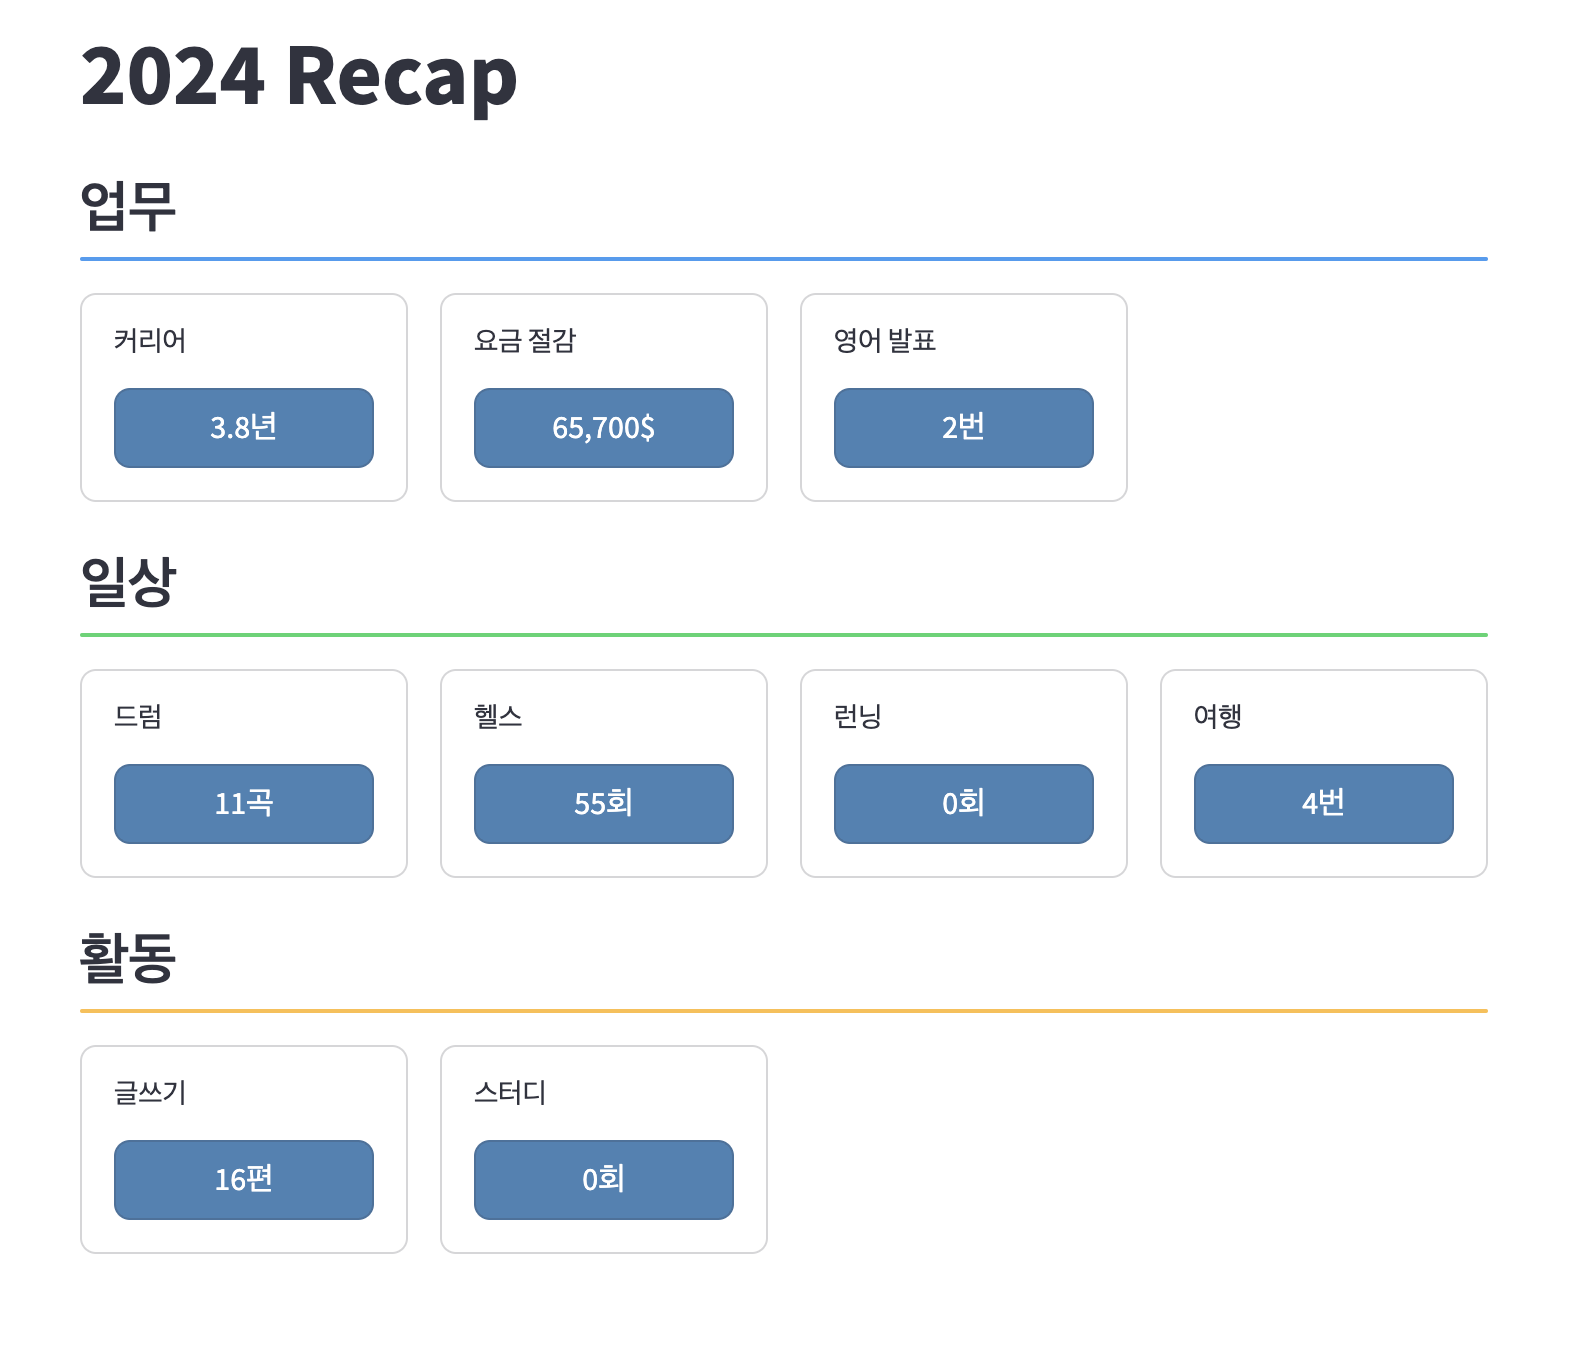
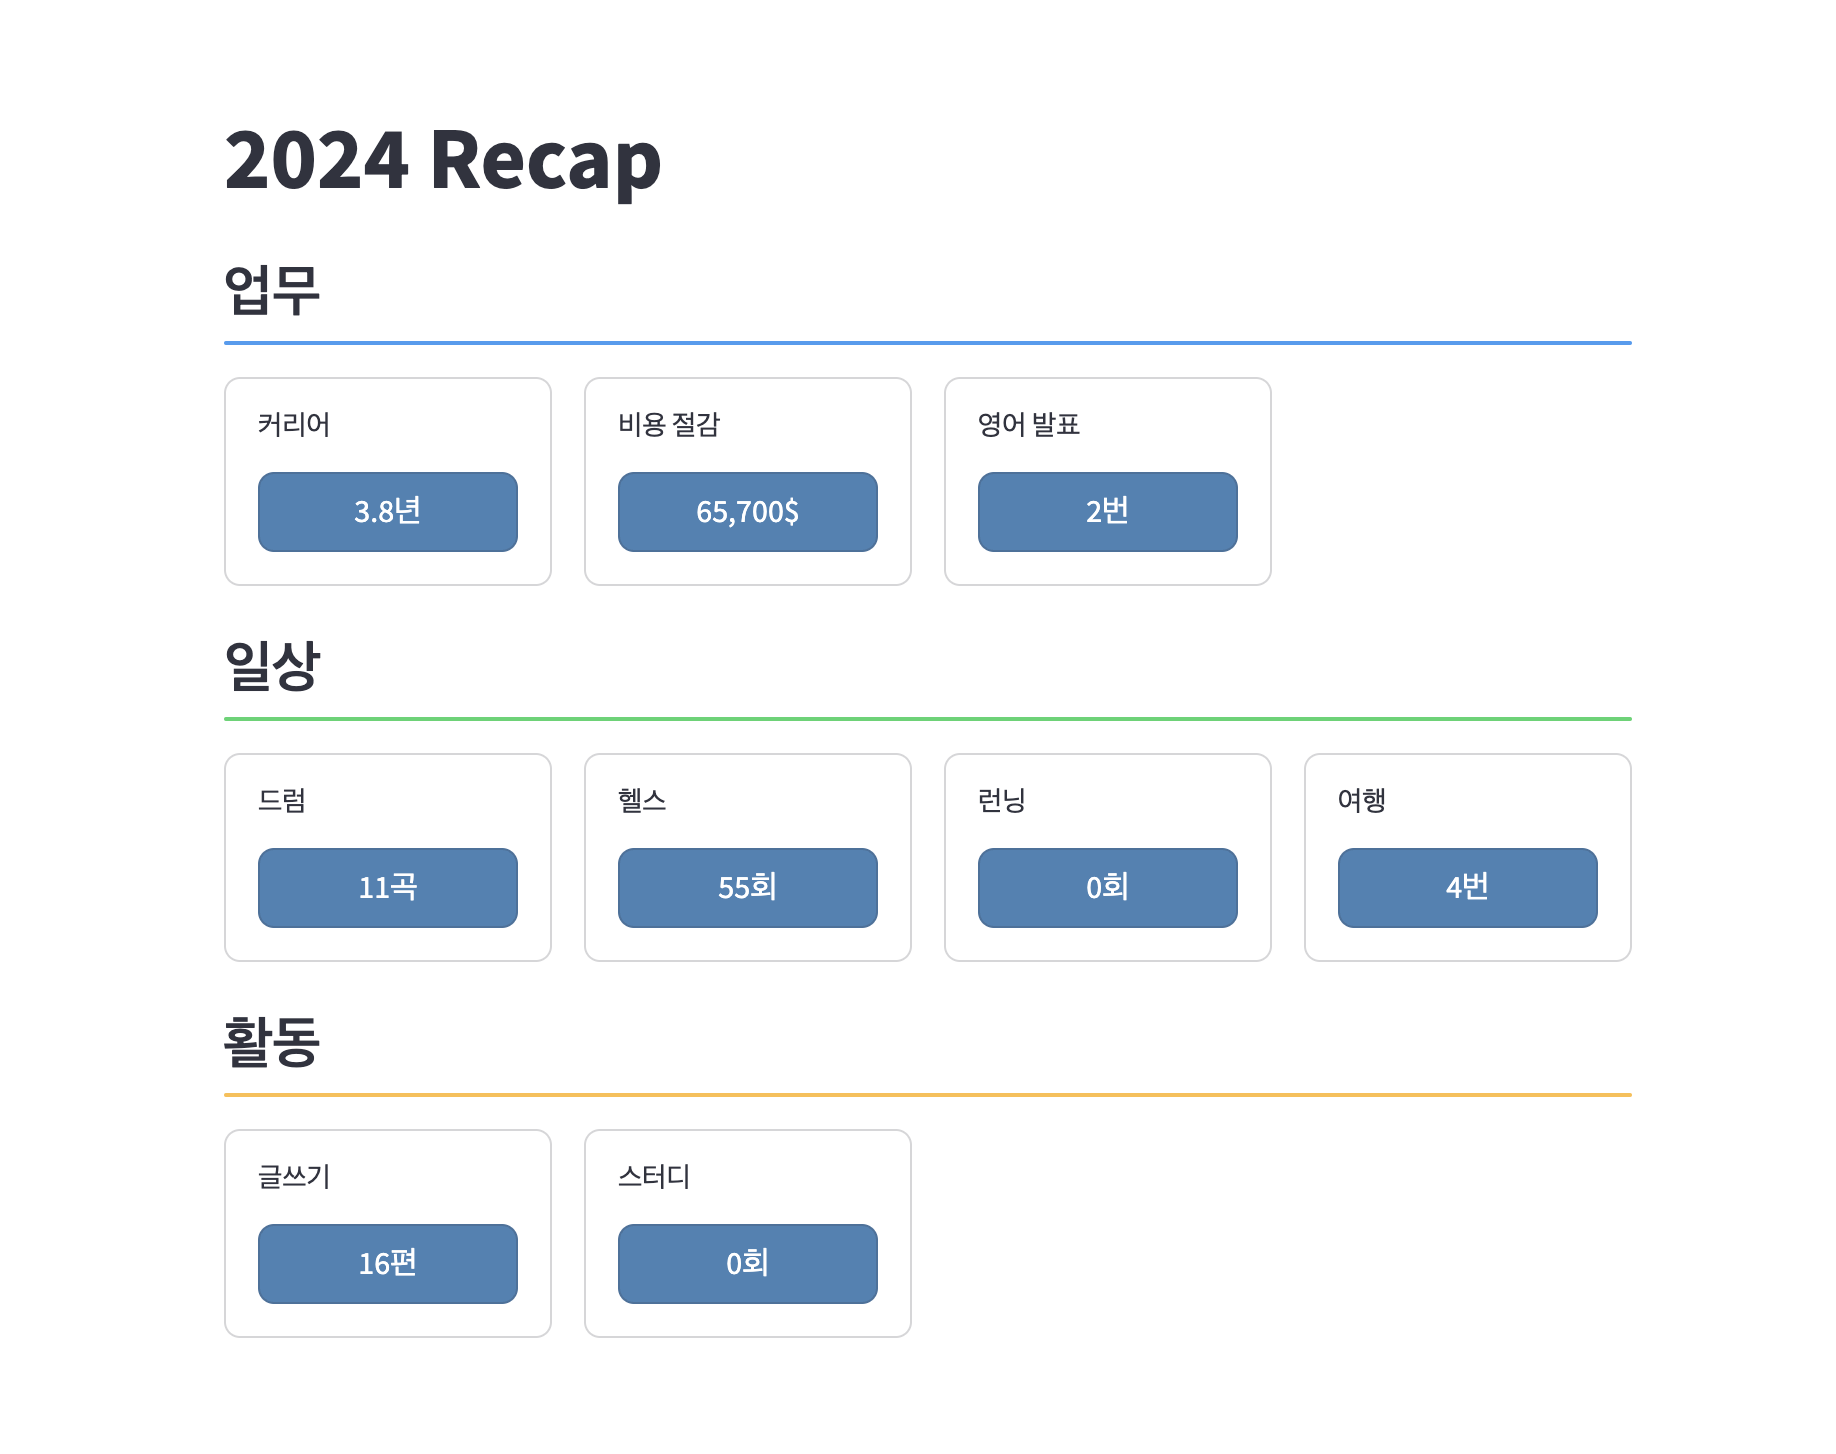
imp: populate the post

Changed region(s): [[0.0312, 0.0312, 0.8739, 0.4056], [0.0312, 0.4056, 0.9363, 0.6553], [0.0312, 0.6865, 0.9051, 0.9361]]

diff --git a/_posts/2025-01-27-Retrospect-2024.md b/_posts/2025-01-27-Retrospect-2024.md
@@ -13,17 +13,17 @@ H4 { color: #C7A579 }
 
 얼마 전 유튜브 뮤직에서 2024 Recap를 보내주었다. Recap은 자신이 가장 많이 들은 음악, 장르, 아티스트와 함께 플레이리스트를 제공하는 유튜브 프리미엄 서비스이다. 덕분에 이번 연휴에는 플레이리스트가 들려주는 음악을 따라 지난 한 해 동안의 감정선을 돌아 볼 수 있었다.
 
-![image_01](/assets/img/posts/2025-01-27/image_01.png){: width="400" }
+![image_01](/assets/img/posts/2025-01-27/image_01.png){: width="300" }
 
 그러다 문득 회고(Retrospect)를 작성하는데 있어서 Recap을 한번 활용해보면 어떨까하는 생각이 들었다. 지난 1년 동안 무슨 일들을 해왔는지 숫자로 표현해보고, 이 일들이 나에게 있어서 어떤 의미였는지 스스로 살펴보는 시간을 갖는 것이다.
 
-먼저 내가 가치 있다고 생각하는 지표들을 정리하여 Recap을 작성했다. 그런 다음, 이 Recap을 바탕으로 한 해를 돌아보며 개선이 필요한 부분을 찾아 목표를 설정하고 동기부여를 다졌다. 마지막으로, 수치로 표현하기 어려운 일들은 다음 회고를 위해 데이터를 수집하고 관리하는 습관을 기르고자 한다.
+먼저 내가 가치 있다고 생각하는 지표들을 정리하여 Recap을 작성했다. 그런 다음, 이 Recap을 바탕으로 한 해를 돌아보며 개선이 필요한 부분을 찾아 목표를 설정하고 동기부여를 다졌다. 마지막으로, 수치로 표현하기 어려웠던 일들은 다음 회고를 위해 데이터를 수집하고 관리하는 습관을 기르고자 한다.
 
 ---
 
 ## Recap
 
-2024 Recap을 작성하기 위해 파이썬의 [streamlit](https://streamlit.io/){: target="_blank"}을 활용하였다. 참고로 streamlit은 github와 연동하여 작성한 코드를 클라우드에 배포할 수 있다.
+2024 Recap을 작성하기 위해 파이썬의 [streamlit](https://streamlit.io/){: target="_blank"} 프레임워크를 활용하였다. 참고로 streamlit은 github와 연동하여 작성한 코드를 클라우드에 배포해주는 서비스를 지원하고 있다.
 
 - [https://ivoryrabbit-recap.streamlit.app/](https://ivoryrabbit-recap.streamlit.app/){: target="_blank"}
 
@@ -34,48 +34,79 @@ H4 { color: #C7A579 }
 ### 업무
 
 #### [커리어]
-- 3.8년
+> 3.8년
 
-#### [요금 절감]
-- 65,700$
+데이터 엔지니어로 일한지도 벌써 4년이 다 돼 간다. 처음에는 이 일을 오래할 수 있을까 불안했는데 여전히 불안하긴 마찬가지이다. 그래도 이 불안함을 성장의 원동력으로 사용하고 있어서 꽤 오래 버티고는 있다.
+
+현재 팀에서 맡고 있는 역할을 직무로 나타내자면 **Data Analytics Engineer**이다. 데이터 사용자가 데이터를 더 잘 활용할 수 있도록 데이터 마트를 만들고 운영하고 있다.
+
+이전까지는 데이터 분석가와의 접점이 기껏해야 Data Ingestion 정도였는데, 지금은 하고 있는 모든 일들이 데이터 분석가의 생산성을 높이는데 집중되어 있다. 그러다보니 분석 환경에서 발생할 수 있는 여러 pain point들을 데이터 사용자 입장에서 이해할 수 있어 좋았다.
+
+#### [비용 절감]
+> 65,700달러
+
+2024년에 한 일 중 가장 ROI가 높았던 일을 꼽자면 레거시 파이프라인 제거였다.
+
+내가 팀에 막 합류했을 때는 팀 내 마지막 데이터 엔지니어가 퇴사한 이후 였다. ~~??~~ 그래서 최초에는 데이터 마트를 리팩토링하거나 신규 데이터 마트를 개발하는 업무를 맡다가, 여유가 될 때면 과거에 만들어진 데이터 자산을 최적화 하였다.
+
+그런데 이번 연말 평가를 진행하면서 그 성과가 무려 연 65,700$로 측정된 것이다. 팀에서 이러한 성과를 놓치지 않고 챙겨준 것도 너무 고마웠고, 내가 다행히 밥값은 하는구나 하며 한편으론 위로가 되어줬던 일이었다.
 
 #### [영어 발표]
-- 2번
+> 2번
 
-1. Data Ingestion 파이프라인
+지난 1년 동안 회사에서 두번의 영어 발표에 도전했다. 통역을 지원 받을 수도 있었지만, 편한 길로만 다니면 도저히 실력이 늘 것 같지 않았다. 발표 주제는 다음과 같다.
 
-2. Text-to-SQL
+1. 신규 Data Ingestion 파이프라인
+2. Text-to-SQL PoC
+
+영어로 발표하는 경험도 물론 값지지만, 발표를 준비하면서 왜 이 발표가 필요한지 고민하는 과정이 더 중요하다고 느꼈다. 청중들에게 발표의 목적과 그들이 얻을 수 있는 가치를 명확하게 전달하는 것이 생각보다 어려웠다.
+
+2025년에는 언어와 무관하게 발표 횟수를 늘려 발표 준비 경험을 더 많이 쌓는 것을 목표로 하고 있다.
+
+---
 
 ### 일상
 
 #### [드럼]
-- 11곡
+> 11곡
 
-가장 재밌었던 곡
-What I've done - Linkin Park
-가장 어려웠던 곡
-Antifreeze - 검정치마
+2024년 여름까지 드럼 레슨을 받았다. 매일 연습실에서 1시간씩 연습했는데 스트레스가 정말 잘 풀린다! 아쉽게도 이사를 하고, 레슨비가 오르면서 여름부터 관두게 되었다.
+
+가장 재밌었던 곡은
+- What I've done - Linkin Park
+
+가장 어려웠던 곡은
+- Antifreeze - 검정치마
+
+2025년에는 어서 빨리 여유를 되찾아 드럼을 다시 치고 싶다.
 
 #### [헬스]
-- 55회
+> 55회
+
+헬스는 이번 회고에서 반드시 다루고 싶은 아이템이었다. 운동을 꾸준히 해야겠다는 다짐과 달리 여러 핑계를 대며 헬스장을 빼먹었다.
+
+유난히 힘들 때는 헬스장을 가곤 했는데, 운동 하다보면 온통 부정적인 생각들로 가득찬 머리가 깨끗이 비워지는 느낌이 들었다.
+
+2025년에는 100회 달성을 목표로 더 부지런하게 운동하려고 한다!
 
 #### [런닝]
-- 0회
-- 유산소 운동을 해야겠다고 생각함
+> 0회
+
+위와 같은 이유로 2025년에는 한강 러닝 20회 달성을 목표로 잡았다.
 
 #### [여행]
-- 4번
+> 4번
 
-경주 가평 단양 강릉
-
+- 모두 국내 여행
+- 경주 가평 단양 강릉
 
 ### 활동
 
 #### [글쓰기]
-- 16편
+> 16편
 
 #### [스터디]
-- 0
+> 0
 
 비전공자에 독학으로 개발자가 된 케이스
 - 혼자 공부하는 것에 익숙해짐
@@ -87,11 +118,6 @@ Antifreeze - 검정치마
 
 너무 바빠서 여유가 없음
 - 계획적으로 살아야 하나? 고민
-
-
-
-
-
 
 
 
